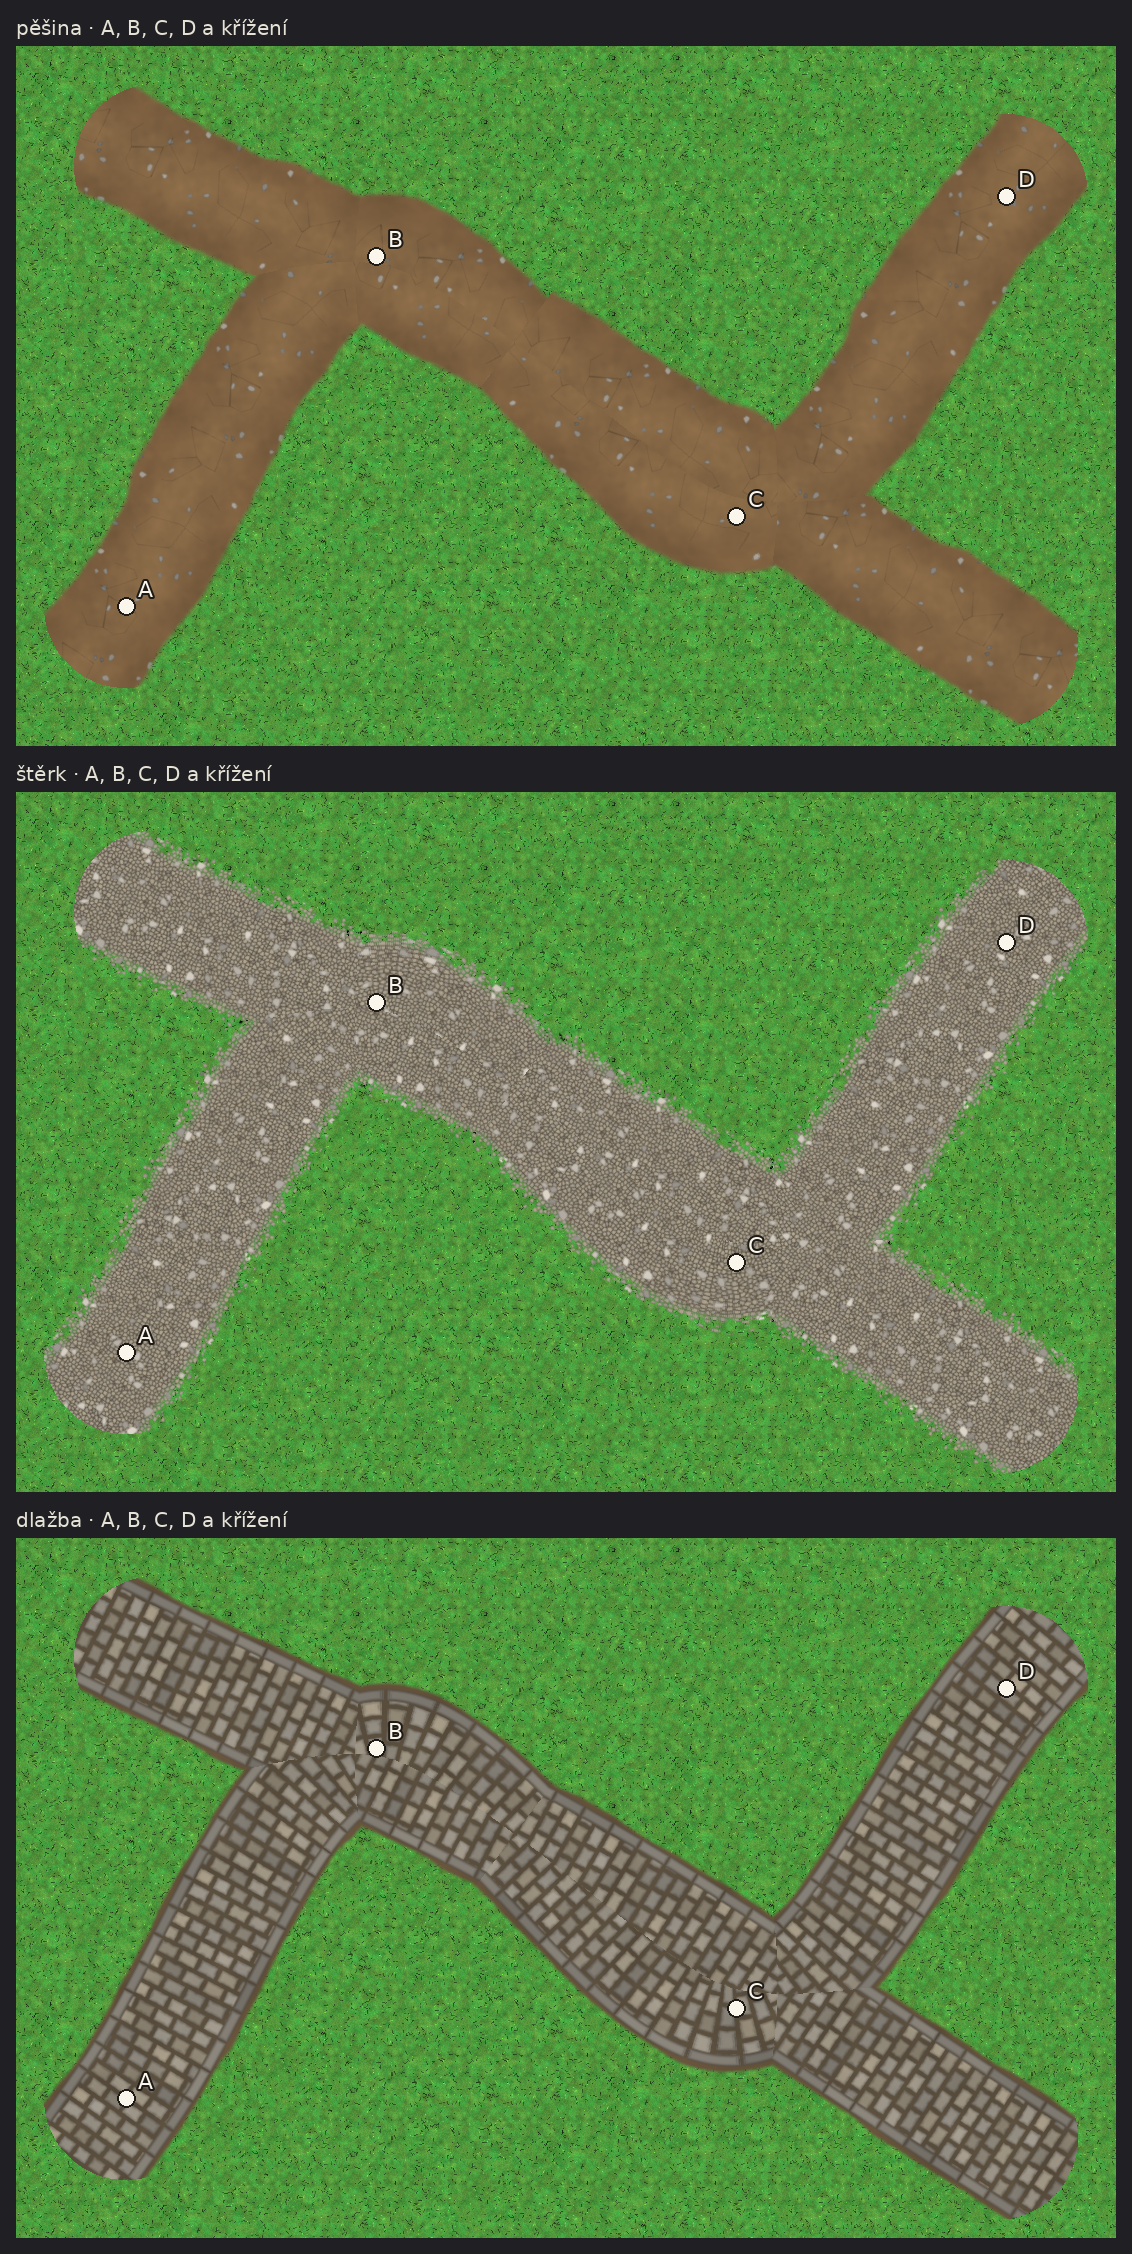
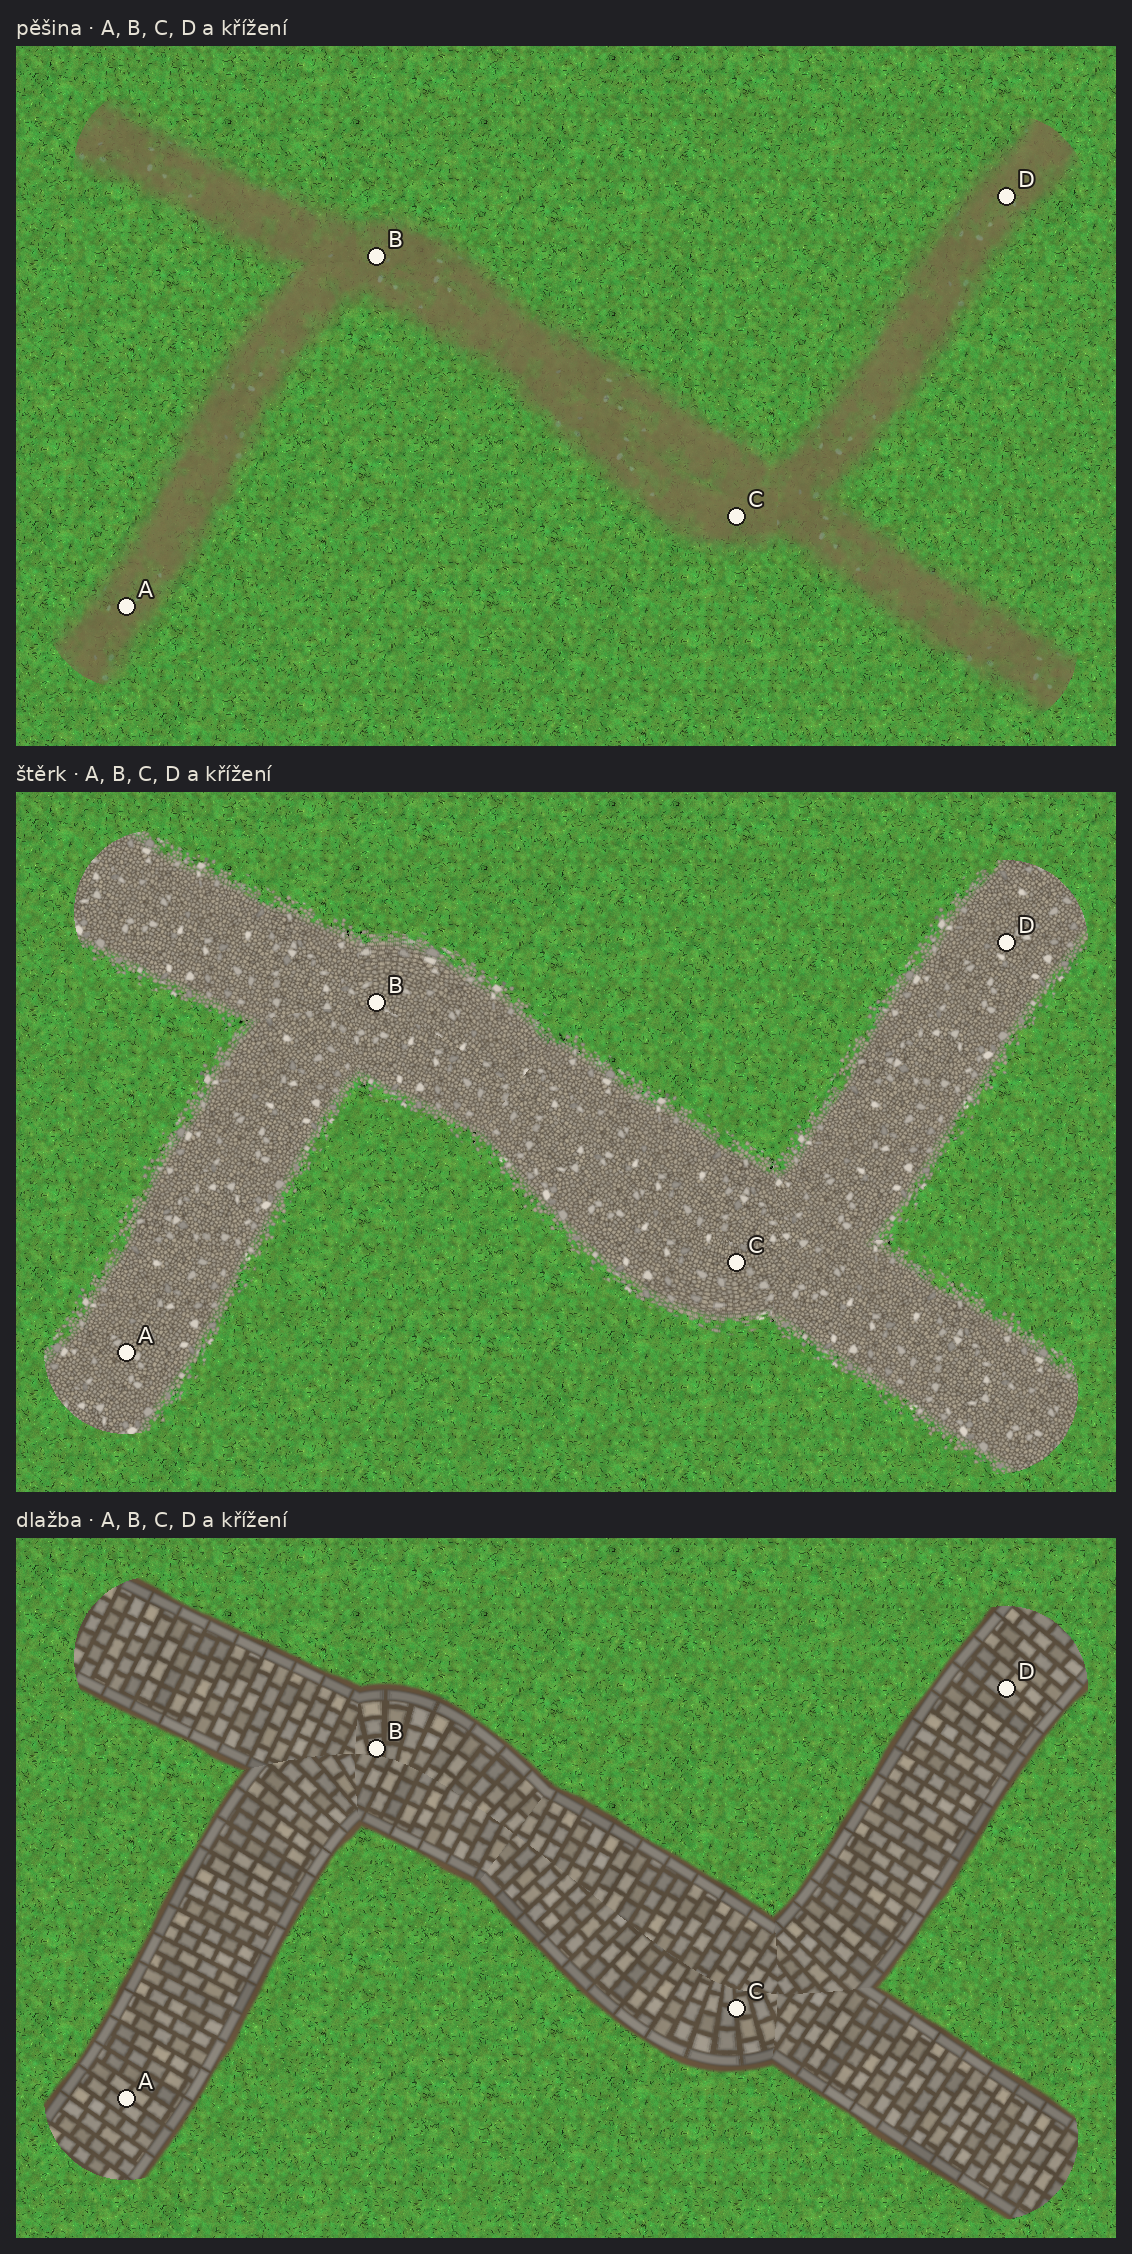
Make the footpath narrower and fade it into the grass.
The trodden core is 1.1 m instead of 1.8 m, the soil is muted, and coverage never goes solid, so grass shows through in tufts and the edges fade gradually. The axis sways slightly along the path.

Changed region(s): [[0.0309, 0.0311, 0.9585, 0.3416]]

diff --git a/tools/gen_paths.py b/tools/gen_paths.py
@@ -11,7 +11,7 @@ Náhled to tak předvádí: cesta přes body A, B, C a D a druhá cesta,
 která ji kříží, položené na trávu ze hry. V křížení vyhrává cesta,
 ke které má pixel blíž, takže se pásy slijí a obruba nepřejede přes střed.
 
-  pesina  ušlapaná hlína, bez směru
+  pesina  úzká vyšlapaná hlína, tlumená, tráva prosvítá, bez směru
   sterk   drobné kamení, bez směru, kraj se rozsype do trávy
   dlazba  kameny v řadách napříč, obruba podél, jede se zatáčkou
 
@@ -45,6 +45,8 @@ SS = 4
 ACROSS = 160
 ALONG = 256
 CORE = 1.8
+# Pěšina je užší a nikde úplně nekryje, tráva prosvitá i uprostřed.
+PESINA_CORE = 1.1
 
 
 @dataclass(frozen=True)
@@ -148,28 +150,31 @@ def mix(*pairs: tuple[np.ndarray, tuple[int, int, int]]) -> np.ndarray:
 
 
 def paint_pesina(u: np.ndarray, v: np.ndarray) -> tuple[np.ndarray, np.ndarray]:
-    """Ušlapaná hlína. Uprostřed světlejší a hladší, ke kraji tmavší a hrubší."""
-    rel = off_center(u) / (CORE * PX / 2.0)
-    worn = 1.0 - smoothstep(0.15, 0.95, rel)
+    """Vyšlapaná pěšina. Úzká, hlína je tlumená a tráva do ní prorůstá ze stran i uprostřed."""
+    half = PESINA_CORE * PX / 2.0
+    # Osa se pomalu vlní, pěšina nejde jako po pravítku.
+    sway = (wrap_fbm(np.full_like(u, 7.0), v, 128.0, 113, 2) - 0.5) * 12.0
+    side = np.abs(u - ACROSS / 2.0 - sway)
+    edge = half + 9.0 * side_wave(u, v, 109)
+    worn = 1.0 - smoothstep(edge - 22.0, edge + 14.0, side)
     blotch = wrap_fbm(u, v, 32.0, 101)
     crumb = wrap_fbm(u, v, 8.0, 103, 2)
     rgb = mix(
-        (0.6 + 0.8 * worn, (150, 118, 80)),
-        (0.7 + 0.6 * (1.0 - worn), (110, 82, 54)),
-        (0.4 * blotch, (124, 96, 62)),
+        (0.6 + 0.6 * worn, (132, 112, 80)),
+        (0.8 + 0.4 * (1.0 - worn), (112, 100, 66)),
+        (0.4 * blotch, (120, 104, 72)),
     )
-    rgb *= (0.86 + 0.18 * blotch + 0.08 * crumb)[..., None]
-    # Pár kamínků a vyschlé praskliny, aby hlína nebyla jedna barva.
+    rgb *= (0.92 + 0.1 * blotch + 0.05 * crumb)[..., None]
     gap, tone, ident = wrap_voronoi(u, v, 8.0, 105)
-    pebble = (ident > 0.95) & (gap > 0.34)
-    pebble_rgb = (0.42 + 0.2 * tone)[..., None] * np.array((1.0, 0.95, 0.88)) * (0.8 + 0.3 * smoothstep(0.34, 0.6, gap))[..., None]
+    pebble = (ident > 0.975) & (gap > 0.4) & (worn > 0.6)
+    pebble_rgb = (0.46 + 0.14 * tone)[..., None] * np.array((1.0, 0.95, 0.88))
     rgb = np.where(pebble[..., None], pebble_rgb, rgb)
-    # Vyschlé praskliny jen sem tam, ne síť přes celou cestu.
-    crack_gap, _t, crack_id = wrap_voronoi(u, v, 32.0, 107)
-    crack = (crack_gap < 0.022) & (crack_id > 0.72) & (worn > 0.45)
-    rgb = np.where(crack[..., None], rgb * 0.8, rgb)
-    alpha = frayed_edge(u, v, 109, 11.0, 5.0)
-    return rgb, alpha
+    # Tráva prorůstá v trsech: krytí místy klesne i uprostřed.
+    tufts = smoothstep(0.42, 0.72, wrap_fbm(u, v, 16.0, 115, 3))
+    grain = hash01(np.floor(u * 2.0), np.floor(v * 2.0), 117)
+    alpha = worn * (0.82 - 0.5 * tufts * (0.4 + 0.6 * (1.0 - worn)))
+    alpha = np.clip(alpha * (1.1 - 0.2 * grain), 0.0, 0.85)
+    return rgb, alpha.astype(np.float32)
 
 
 def paint_sterk(u: np.ndarray, v: np.ndarray) -> tuple[np.ndarray, np.ndarray]:
@@ -278,7 +283,13 @@ def check(pattern: Pattern, image: Image.Image) -> None:
     if image.size != (ACROSS, ALONG):
         raise SystemExit(f"{pattern.name}: má {image.size}, čekám {(ACROSS, ALONG)}")
     middle = data[:, ACROSS // 2 - 20 : ACROSS // 2 + 20, 3]
-    if int((middle < 250).sum()) > middle.size // 50:
+    if pattern.name == "pesina":
+        if not 110 <= middle.mean() <= 225:
+            raise SystemExit(f"{pattern.name}: střed má krytí {middle.mean():.0f}, má prosvítat, ale být vidět")
+        visible = int((data[..., 3].mean(axis=0) > 64).sum())
+        if visible > PX * 1.6:
+            raise SystemExit(f"{pattern.name}: viditelná šíře {visible} px, má být užší")
+    elif int((middle < 250).sum()) > middle.size // 50:
         raise SystemExit(f"{pattern.name}: střed cesty není plný")
     if int(data[:, :3, 3].max()) > 8 or int(data[:, -3:, 3].max()) > 8:
         raise SystemExit(f"{pattern.name}: kraj obrázku není průhledný")
